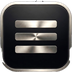
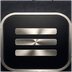
fix: Clean hamburger (no internal mods), metallic chevron arrow (no text), 36x36 centered in header

diff --git a/app/dashboard/agent/AgentDashboardClient.tsx b/app/dashboard/agent/AgentDashboardClient.tsx
@@ -479,7 +479,7 @@ export default function AgentDashboardClient({
           </button>
           
           <Link href="/dashboard" style={{ display: 'inline-flex', alignItems: 'center' }}>
-            <img src="/images/back-arrow.png" alt="Back" width={70} height={46} style={{ display: 'block', transition: 'opacity 0.2s' }} onMouseEnter={e => (e.currentTarget.style.opacity = '0.8')} onMouseLeave={e => (e.currentTarget.style.opacity = '1')} />
+            <img src="/images/back-arrow.png" alt="Back" width={36} height={36} style={{ display: 'block', transition: 'opacity 0.2s' }} onMouseEnter={e => (e.currentTarget.style.opacity = '0.8')} onMouseLeave={e => (e.currentTarget.style.opacity = '1')} />
           </Link>
           <div style={{ width: 1, height: 16, background: 'rgba(255,255,255,0.1)' }} />
           <span style={{ fontFamily: 'var(--font-brand)', fontSize: '0.9rem', fontWeight: 800, letterSpacing: '0.12em', color: 'var(--teal)' }}>
